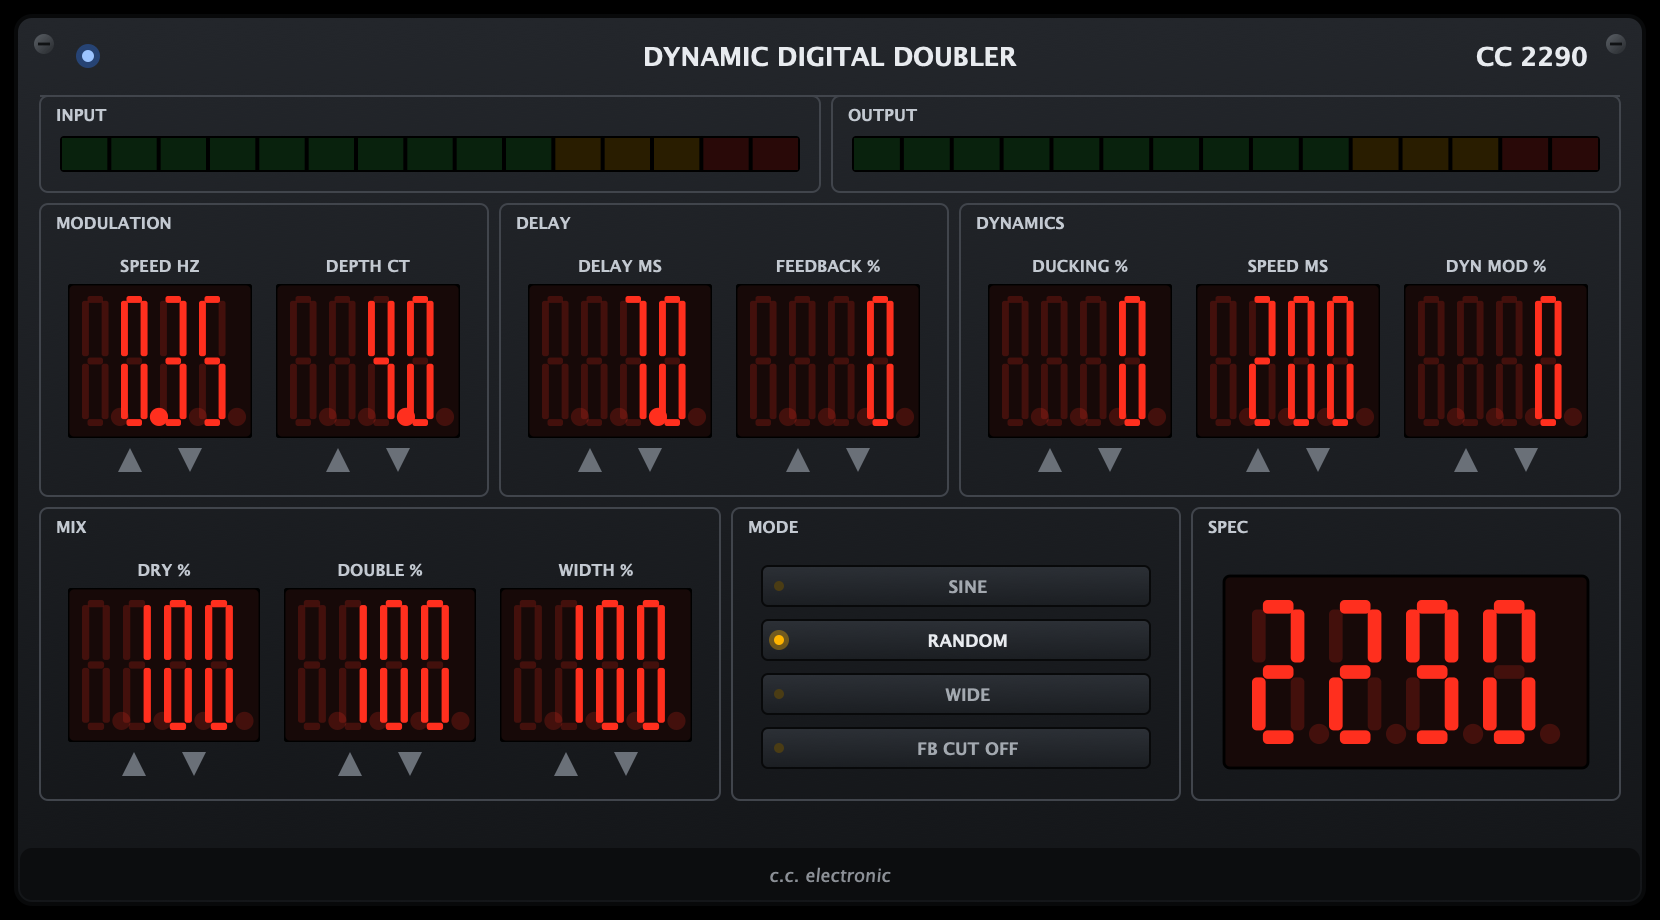
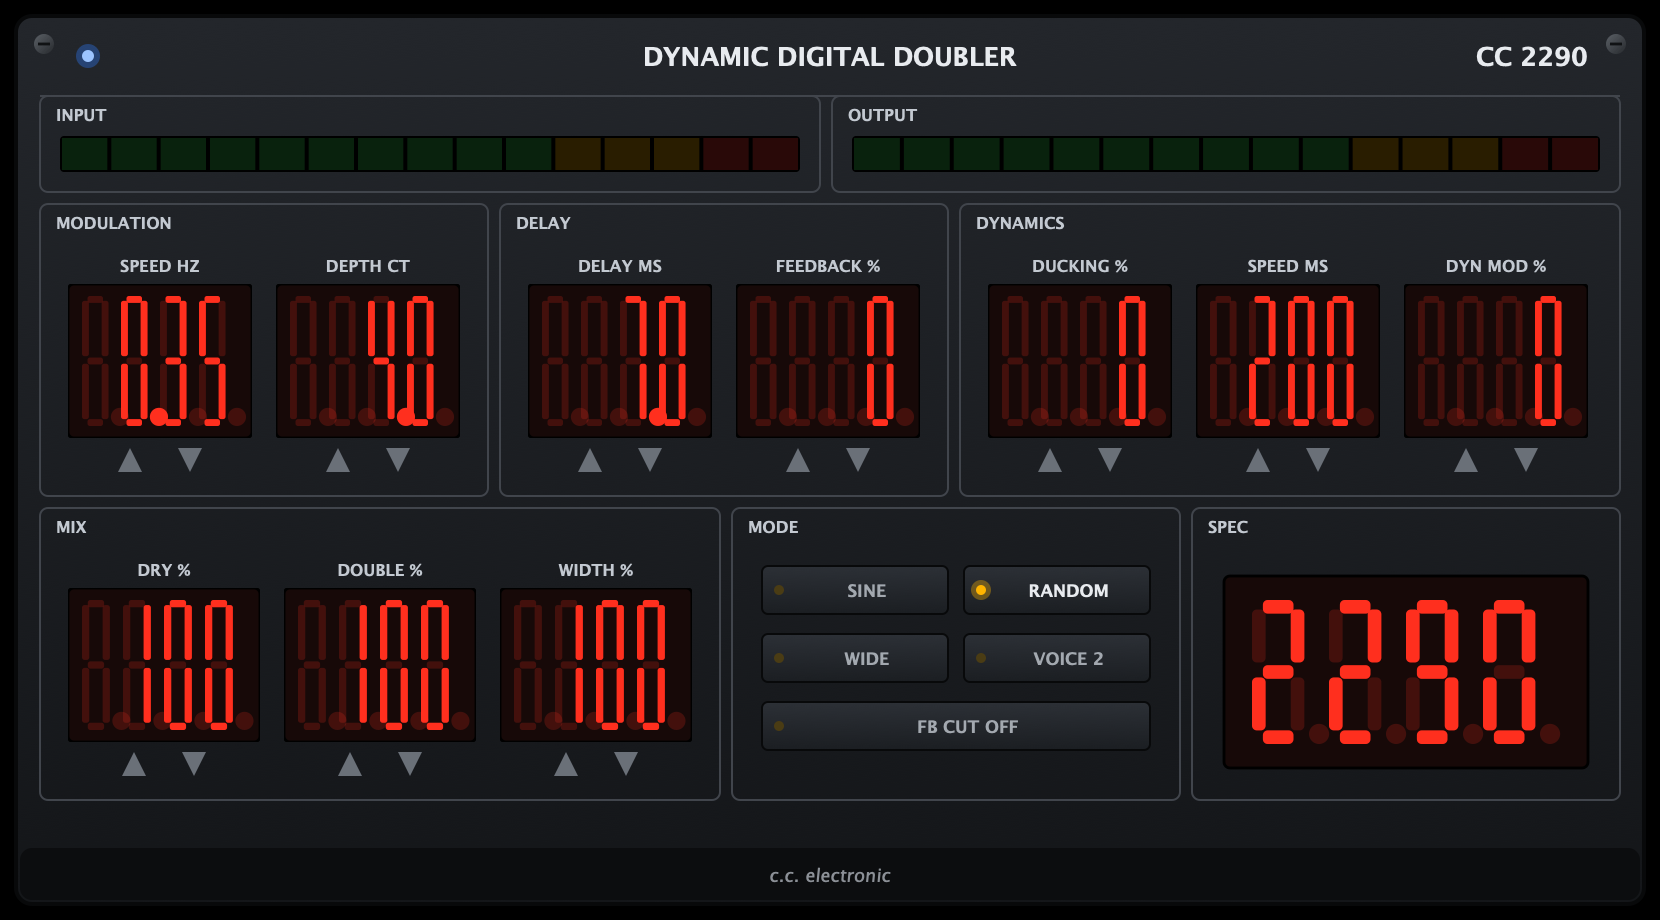
Fix flanger-like sound: width is now a dry/delay split
The mix law summed the dry and the short wet voice on the same channel
(L = dry + 7 ms delay), a comb filter with ~20 dB notches every ~143 Hz
whose notches sweep with the LFO — i.e. a flanger, not a doubler. The
2290 manual's own chart marks 0-10 ms mixed dry+wet as the flanger zone,
and the real split rigs never sum the two: dry one side, delay the other.

Width now walks the dry left and the delayed voice right; at 100% the
default patch is the true Petrucci split (pure dry L, pure 7 ms double R,
zero comb). At 0% both sit centred for classic mono ADT stacking. The
golden-ratio second tap moved to an optional VOICE 2 switch (default off)
on the opposite side, so it no longer adds a second comb source. Mono
instances force width 0 so the double is never lost.

Verified: auval passes; numeric test shows the default patch's L output
is bit-exact dry (comb impossible) with the double on R, wide mode and
mono-compat invariants unchanged, fb hi-cut sweep stable.

Changed region(s): [[0.4608, 0.6087, 0.6759, 0.8217]]

diff --git a/Source/PluginProcessor.cpp b/Source/PluginProcessor.cpp
@@ -14,6 +14,7 @@ namespace IDs
     static const juce::String feedback { "feedback" };  // %
     static const juce::String fbhicut  { "fbhicut" };   // repeat-only hi-cut choice
     static const juce::String wide     { "wide" };      // bool, wet phase-reverse R
+    static const juce::String voice2   { "voice2" };    // bool, golden-ratio 2nd tap
     static const juce::String dry      { "dry" };       // %
     static const juce::String wet      { "wet" };       // %
 }
@@ -66,6 +67,9 @@ juce::AudioProcessorValueTreeState::ParameterLayout CC2290Processor::createLayou
                                  juce::StringArray { "2 kHz", "4 kHz", "8 kHz", "Off" }, 3));
     // the 2290's signature wide mode: wet phase-reversed between L and R
     l.add (std::make_unique<Pb> (juce::ParameterID { IDs::wide, 1 }, "Wide", false));
+    // optional golden-ratio second tap (a creative extra — the 2290 is
+    // single-voice; keeping it off avoids a second comb source by default)
+    l.add (std::make_unique<Pb> (juce::ParameterID { IDs::voice2, 1 }, "Voice 2", false));
     l.add (std::make_unique<P>  (juce::ParameterID { IDs::dry, 1 }, "Dry",
                                  juce::NormalisableRange<float> (0.0f, 100.0f, 1.0f), 100.0f,
                                  juce::AudioParameterFloatAttributes().withLabel ("%")));
@@ -98,10 +102,12 @@ void CC2290Processor::prepareToPlay (double sampleRate, int)
     randValA = randValB = randTargetA = randTargetB = 0.0f;
 
     const double smoothSec = 0.05;
-    for (auto* s : { &smDelayMs, &smWet, &smDry, &smWidth, &smFeedback, &smWideSign })
+    for (auto* s : { &smDelayMs, &smWet, &smDry, &smWidth, &smFeedback, &smWideSign, &smVoice2 })
         s->reset (sampleRate, smoothSec);
     smWideSign.setCurrentAndTargetValue (
         apvts.getRawParameterValue ("wide")->load() > 0.5f ? -1.0f : 1.0f);
+    smVoice2.setCurrentAndTargetValue (
+        apvts.getRawParameterValue ("voice2")->load() > 0.5f ? 1.0f : 0.0f);
 
     juce::dsp::ProcessSpec spec { sampleRate, 512, 1 };
     fbFiltL.prepare (spec);
@@ -147,6 +153,7 @@ void CC2290Processor::processBlock (juce::AudioBuffer<float>& buffer, juce::Midi
     const float pFb      = apvts.getRawParameterValue (IDs::feedback)->load() * 0.01f;
     const int   pFbCut   = (int) apvts.getRawParameterValue (IDs::fbhicut)->load();
     const bool  pWide    = apvts.getRawParameterValue (IDs::wide)->load() > 0.5f;
+    const bool  pVoice2  = apvts.getRawParameterValue (IDs::voice2)->load() > 0.5f;
     const float pDry     = apvts.getRawParameterValue (IDs::dry)->load() * 0.01f;
     const float pWet     = apvts.getRawParameterValue (IDs::wet)->load() * 0.01f;
 
@@ -156,6 +163,7 @@ void CC2290Processor::processBlock (juce::AudioBuffer<float>& buffer, juce::Midi
     smWidth.setTargetValue (pWidth);
     smFeedback.setTargetValue (pFb);
     smWideSign.setTargetValue (pWide ? -1.0f : 1.0f);
+    smVoice2.setTargetValue (pVoice2 ? 1.0f : 0.0f);
 
     if (pFbCut != fbCutIdx)
     {
@@ -261,26 +269,33 @@ void CC2290Processor::processBlock (juce::AudioBuffer<float>& buffer, juce::Midi
 
         const float wet   = smWet.getNextValue() * duckGain;
         const float dry   = smDry.getNextValue();
-        const float width = smWidth.getNextValue();
+        float width       = smWidth.getNextValue();
+        const float v2    = smVoice2.getNextValue();
+        if (outR == nullptr)
+            width = 0.0f;   // the dry/wet split needs two channels
 
-        // width 0: single centred voice; width 1: A hard left, B hard right
-        const float vA_L = 1.0f;
-        const float vA_R = 1.0f - width;          // A moves left as width grows
-        const float vB_L = (1.0f - width);        // B moves right as width grows
-        const float vB_R = 1.0f;
-        const float bGain = width;                // voice B fades in with width
+        // width is the 2290-style split: the dry walks left while the delayed
+        // voice walks right, so at full width the dry and the double never sum
+        // on the same channel — summing them is what combs like a flanger at
+        // short delay times. voice B (optional) takes the opposite side.
+        const float dryPanL = 1.0f;
+        const float dryPanR = 1.0f - width;
+        const float vA_L = 1.0f - width;
+        const float vA_R = 1.0f;
+        const float vB_L = 1.0f;
+        const float vB_R = 1.0f - width;
 
-        const float wl = wet * (tapAL * vA_L + tapBL * vB_L * bGain) * 0.9f;
-        const float wr = wet * (tapAR * vA_R + tapBR * vB_R * bGain) * 0.9f;
+        const float wl = wet * (tapAL * vA_L + tapBL * vB_L * v2 * 0.8f) * 0.9f;
+        const float wr = wet * (tapAR * vA_R + tapBR * vB_R * v2 * 0.8f) * 0.9f;
 
         // wide mode: wet phase-reversed on the right, per the 2290's stereo
         // trick ("pleasantly broad but not monocompatible"); smoothed so
         // toggling doesn't click
         const float wideSign = smWideSign.getNextValue();
 
-        outL[i] = dryL * dry + wl;
+        outL[i] = dryL * dry * dryPanL + wl;
         if (outR != nullptr)
-            outR[i] = dryR * dry + wr * wideSign;
+            outR[i] = dryR * dry * dryPanR + wr * wideSign;
 
         inPk  = juce::jmax (inPk, std::abs (mono));
         outPk = juce::jmax (outPk, std::abs (outL[i]),

diff --git a/Source/PluginEditor.cpp b/Source/PluginEditor.cpp
@@ -269,6 +269,11 @@ CC2290Editor::CC2290Editor (CC2290Processor& p)
     wideAttach = std::make_unique<juce::AudioProcessorValueTreeState::ButtonAttachment> (
         proc.apvts, "wide", wideButton);
 
+    voice2Button.setClickingTogglesState (true);
+    addAndMakeVisible (voice2Button);
+    voice2Attach = std::make_unique<juce::AudioProcessorValueTreeState::ButtonAttachment> (
+        proc.apvts, "voice2", voice2Button);
+
     // feedback hi-cut cycles 2k -> 4k -> 8k -> off; LED lit while engaged
     addAndMakeVisible (fbCutButton);
     auto* fbCutParam = proc.apvts.getParameter ("fbhicut");
@@ -366,13 +371,17 @@ void CC2290Editor::resized()
 
         auto content = modeBox.reduced (14);
         content.removeFromTop (14);
-        const int bh = 22;
-        sineButton.setBounds  (content.removeFromTop (bh));
-        content.removeFromTop (5);
-        randButton.setBounds  (content.removeFromTop (bh));
-        content.removeFromTop (5);
-        wideButton.setBounds  (content.removeFromTop (bh));
-        content.removeFromTop (5);
+        const int bh = 26;
+        auto pair = [] (juce::Rectangle<int> row, juce::TextButton& a, juce::TextButton& b)
+        {
+            a.setBounds (row.removeFromLeft (row.getWidth() / 2 - 3));
+            row.removeFromLeft (6);
+            b.setBounds (row);
+        };
+        pair (content.removeFromTop (bh), sineButton, randButton);
+        content.removeFromTop (8);
+        pair (content.removeFromTop (bh), wideButton, voice2Button);
+        content.removeFromTop (8);
         fbCutButton.setBounds (content.removeFromTop (bh));
 
         specDisplay = specBox.reduced (16).withTrimmedTop (18);

diff --git a/Source/PluginEditor.h b/Source/PluginEditor.h
@@ -78,9 +78,10 @@ private:
                                dryCell, wetCell, widthCell;
 
     juce::TextButton sineButton { "SINE" }, randButton { "RANDOM" },
-                     wideButton { "WIDE" }, fbCutButton { "FB CUT OFF" };
+                     wideButton { "WIDE" }, voice2Button { "VOICE 2" },
+                     fbCutButton { "FB CUT OFF" };
     std::unique_ptr<juce::ParameterAttachment> waveAttach, fbCutAttach;
-    std::unique_ptr<juce::AudioProcessorValueTreeState::ButtonAttachment> wideAttach;
+    std::unique_ptr<juce::AudioProcessorValueTreeState::ButtonAttachment> wideAttach, voice2Attach;
     int fbCutIdx = 3;
 
     LevelMeter inMeter, outMeter;

diff --git a/Source/PluginProcessor.h b/Source/PluginProcessor.h
@@ -61,8 +61,9 @@ private:
     // envelope follower
     float env = 0.0f;
 
-    // smoothed params (smWideSign ramps between +1/-1 for the wide switch)
-    juce::SmoothedValue<float> smDelayMs, smWet, smDry, smWidth, smFeedback, smWideSign;
+    // smoothed params (smWideSign ramps between +1/-1 for the wide switch,
+    // smVoice2 between 0/1 for the second-voice switch)
+    juce::SmoothedValue<float> smDelayMs, smWet, smDry, smWidth, smFeedback, smWideSign, smVoice2;
     float fbL = 0.0f, fbR = 0.0f;
 
     // feedback-path hi-cut (repeats only, like the hardware's 2/4/8 kHz)

diff --git a/README.md b/README.md
@@ -26,13 +26,20 @@ The famous "2290 doubling" sound is not a special mode — it is a recipe:
    dry signal while you play (ducking), and modulation can deepen the harder you
    play (dynamic modulation).
 
-Extras: a golden-ratio (×1.618) second voice for stereo width (a creative
-addition — the real 2290 is single-voice; multi-voice rigs chained several
-units), a **Wide** mode that phase-reverses the wet signal between left and
-right (the hardware's signature "pleasantly broad but not monocompatible"
-stereo trick), a feedback-path hi-cut (2/4/8 kHz, repeats only, first echo
-stays full-band — like the hardware's feedback filters), and an LED rack-style
-UI with draggable 7-segment displays and live input/output meters.
+**Width is a dry/delay split**, like the classic 2290 rigs: as width increases
+the dry signal walks left and the delayed voice walks right, so at 100% the
+dry and the double never sum on the same channel. (Summing them is what combs
+like a flanger at short delay times — the manual's own chart calls 0–10 ms
+mixed dry+wet the flanger zone.) At width 0% both sit centred for classic
+mono ADT stacking.
+
+Extras: an optional **Voice 2** golden-ratio (×1.618) second tap on the
+opposite side (a creative addition — the real 2290 is single-voice; multi-voice
+rigs chained several units), a **Wide** mode that phase-reverses the wet signal
+between left and right (the hardware's signature "pleasantly broad but not
+monocompatible" stereo trick), a feedback-path hi-cut (2/4/8 kHz, repeats only,
+first echo stays full-band — like the hardware's feedback filters), and an LED
+rack-style UI with draggable 7-segment displays and live input/output meters.
 
 True stereo: each input channel gets its own delay line, so stereo sources
 keep their image in the doubled signal; ducking attenuates both the delay
@@ -54,8 +61,8 @@ modulation (4 cents @ 0.35 Hz) for the chorused movement. Classic 24 ms
 | MODULATION | Speed (Hz), Depth (cents) |
 | DELAY | Delay (ms), Feedback (%) |
 | DYNAMICS | Ducking (%), Dyn Speed (ms), Dyn Mod (%) |
-| MIX | Dry (%), Double (%), Width (%) |
-| MODE | Sine / Random waveform, Wide (wet phase-reverse), FB hi-cut (2/4/8 kHz/off) |
+| MIX | Dry (%), Double (%), Width (% dry/delay split) |
+| MODE | Sine / Random waveform, Wide (wet phase-reverse), Voice 2 (golden-ratio tap), FB hi-cut (2/4/8 kHz/off) |
 
 ## Building
 
